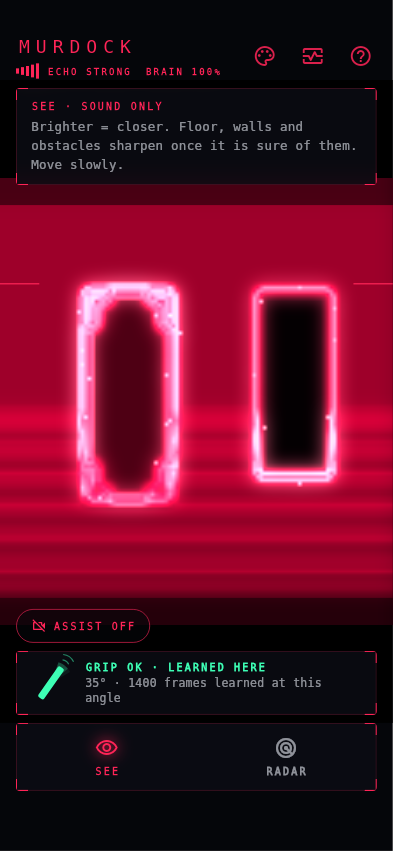
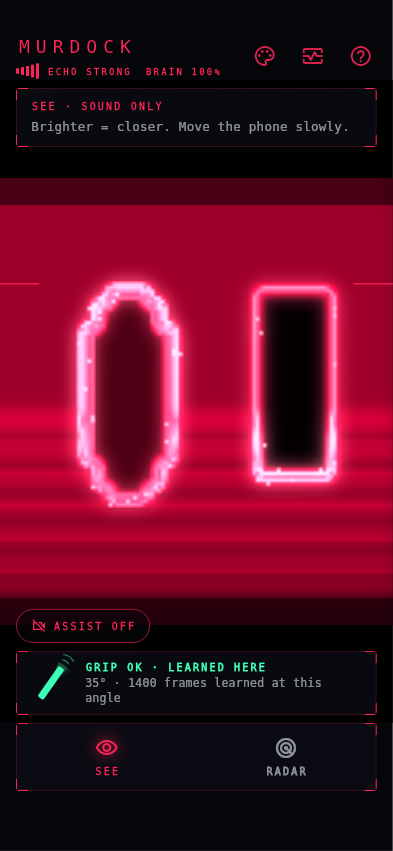
Remove geometric shapes from SEE: cluttered and inaccurate on the phone
The shapes head keeps training in the background but is no longer drawn or sent to
the UI, and the camera no longer fits shapes per frame.

Claude-Session: https://claude.ai/code/session_01FaaL1WKpQiBqvyPWN8qiJK

diff --git a/lib/home_page.dart b/lib/home_page.dart
@@ -9,7 +9,6 @@ import 'package:wakelock_plus/wakelock_plus.dart';
 import 'render/fusion.dart';
 import 'render/palette.dart';
 import 'render/scope_view.dart';
-import 'render/shapes.dart';
 import 'render/vision_renderer.dart';
 import 'render/vision_view.dart';
 import 'sonar/sonar_channel.dart';
@@ -44,9 +43,6 @@ class HomePage extends StatefulWidget {
 class _HomePageState extends State<HomePage> with WidgetsBindingObserver {
   final _sonar = SonarChannel();
   final _vision = VisionRenderer();
-  // Scene shapes (floor, walls, obstacles), drawn into the echo picture once it is sure of them.
-  final _shapes = ShapeTracker();
-  Float32List? _teacherShapes;
   final _camera = CameraTeacher();
   final List<StreamSubscription<Object?>> _subs = [];
 
@@ -95,10 +91,7 @@ class _HomePageState extends State<HomePage> with WidgetsBindingObserver {
     _subs.add(_sonar.brain.listen((b) {
       _samples = b.samples;
       _lastBrainAt = DateTime.now();
-      final shapes = cleanShapes(b.shapes);
-      if (shapes != null) _shapes.update(fuseShapes(shapes, _teacherShapes, _assistLevel));
-      // Shapes it is sure of are drawn into the echo picture itself (same laser look).
-      _vision.update(paintShapes(_fuse(b.depth), _shapes));
+      _vision.update(_fuse(b.depth));
     }));
     _subs.add(_sonar.pose.listen((p) => setState(() {
           _tilt = p.tilt;
@@ -234,7 +227,6 @@ class _HomePageState extends State<HomePage> with WidgetsBindingObserver {
   Future<void> _stopCamera() async {
     await _camera.stop();
     _teacherMap = null;
-    _teacherShapes = null;
     await _sonar.save();
   }
 
@@ -249,7 +241,6 @@ class _HomePageState extends State<HomePage> with WidgetsBindingObserver {
     final learn = f.luma >= kLearnLuma;
     final r = await _sonar.teach(f.rgb, learn: learn);
     _teacherMap = softenCameraDepth(r.depth);
-    _teacherShapes = cleanShapes(r.shapes);
     _teacherAt = DateTime.now();
     _teacherMs = r.ms;
     _teacherBackend = r.backend;
@@ -437,7 +428,7 @@ class _HomePageState extends State<HomePage> with WidgetsBindingObserver {
       title = 'SEE · SOUND ONLY';
       body = untaught
           ? 'Generic BatVision head start until it learns your rooms. Turn on camera assist to teach it.'
-          : 'Brighter = closer. Floor, walls and obstacles sharpen once it is sure of them. Move slowly.';
+          : 'Brighter = closer. Move the phone slowly.';
     } else if (_cameraLuma < kAssistLuma) {
       title = 'SEE · SOUND ONLY · TOO DARK FOR CAMERA';
       body = 'The picture comes from echoes alone. Brighter = closer.';

diff --git a/lib/sonar/sonar_channel.dart b/lib/sonar/sonar_channel.dart
@@ -45,18 +45,13 @@ class SonarFrame {
 class BrainFrame {
   BrainFrame(Map<Object?, Object?> m)
       : depth = m['depth']! as Float32List,
-        shapes = m['shapes'] as Float32List?,
         steps = (m['steps'] as int?) ?? 0,
         loss = (m['loss'] as num?)?.toDouble() ?? double.nan,
-        shapeLoss = (m['shapeLoss'] as num?)?.toDouble() ?? double.nan,
         samples = (m['samples'] as int?) ?? 0;
 
   /// [kDepthSize x kDepthSize] predicted nearness (1 = close).
   final Float32List depth;
 
-  /// Predicted scene shapes (floor, walls, nearest obstacles; render/shapes.dart layout).
-  final Float32List? shapes;
-  final double shapeLoss;
   final int steps;
   final double loss;
 
@@ -205,14 +200,11 @@ class SonarStatus {
 class TeachResult {
   TeachResult(Map<Object?, Object?> m)
       : depth = m['depth']! as Float32List,
-        shapes = m['shapes'] as Float32List?,
         ms = m['ms'] as int? ?? 0,
         backend = m['backend'] as String? ?? '';
 
   final Float32List depth;
 
-  /// Shapes fitted to the camera's depth (what the echo AI learns to predict).
-  final Float32List? shapes;
   final int ms;
   final String backend;
 }

diff --git a/tool/screenshots_test.dart b/tool/screenshots_test.dart
@@ -51,12 +51,6 @@ Float32List _room() {
   return d;
 }
 
-/// ml/shapes.py fit_shapes(_room()): floor, walls and the person as the nearest obstacle.
-final _roomShapes = Float32List.fromList([
-  0.643, 0.516, 0.719, 0.000, 0.375, 0.789, 0.358, 0.290, 0.408, 0.730, 0.179, 0.598, //
-  1.000, 0.800, 0.328, 0.484, 0.219, 0.531, 0.550, 0.250, 0.016, 0.250, 0.031, 0.500,
-]);
-
 Float32List _profile(int t) {
   final p = Float32List(kRangeBins * kChannels);
   for (var b = 0; b < kRangeBins; b++) {
@@ -139,12 +133,11 @@ void _mockNative(
       sink.success({'type': 'pose', 'tilt': tilt, 'roll': 2.0});
       if (tuneDone != null) sink.success(_tuneEvent(done: tuneDone));
       if (broken) return;
-      for (var t = 0; t < 90; t++) { // long enough for steady shapes to be drawn
+      for (var t = 0; t < 40; t++) {
         sink.success({'type': 'ping', 'profile': _profile(t), 'clean': _profile(t), 'direct': 3.2});
         sink.success({
           'type': 'brain',
           'depth': _room(),
-          'shapes': _roomShapes,
           'samples': samples,
           'steps': samples * 4,
           'loss': 0.1,

diff --git a/android/app/src/main/kotlin/com/murdock/murdock/MainActivity.kt b/android/app/src/main/kotlin/com/murdock/murdock/MainActivity.kt
@@ -203,8 +203,7 @@ class MainActivity : FlutterActivity() {
             val depth = t.run(rgb)
             // No samples while the speaker filter is relearned: those echoes aren't clean.
             if (learn && sonar?.busy != true) submitBrain("training") { brain?.addSample(stack, pose, depth, tilt) }
-            // The camera's own shapes too, so camera assist can sharpen the shape overlay.
-            reply(result, mapOf("depth" to depth, "shapes" to ShapeFit.fit(depth), "ms" to t.lastMs.toInt(), "backend" to t.backend))
+            reply(result, mapOf("depth" to depth, "ms" to t.lastMs.toInt(), "backend" to t.backend))
         }
     }
 
@@ -230,8 +229,6 @@ class MainActivity : FlutterActivity() {
                 emit(mapOf(
                     "type" to "brain",
                     "depth" to p.depth,
-                    "shapes" to p.shapes,
-                    "shapeLoss" to b.lastShapeLoss.toDouble(),
                     "steps" to b.trainedSteps,
                     "loss" to b.lastLoss.toDouble(),
                     "samples" to b.totalSamples,

diff --git a/README.md b/README.md
@@ -119,10 +119,10 @@ two-grip session on the phone runtime, the angle input cut held-out error from 0
 
 A second, small **shapes head** (`ml/shapes.py`) predicts a few scene primitives from the same
 latent and pose: the floor (horizon, nearness), wall panels to the left, ahead and right
-(nearness, slant), and the two nearest obstacles as boxes, each with a confidence. Only shapes
-reported steadily for about 2 seconds are used: SEE then paints them into the nearness map
-(`paintShapes` in `lib/render/shapes.dart`, at most 60% of a pixel), so the normal echo renderer
-draws them in the same laser look. The labels are fitted to the camera teacher's depth
+(nearness, slant), and the two nearest obstacles as boxes, each with a confidence. They are **not
+shown** in the app: on the phone they cluttered the picture without being accurate (on
+BatVision they beat a no-audio guess by only ~5%). The head still learns quietly alongside the
+depth head, so it can be revisited once there is far more data. The labels are fitted to the camera teacher's depth
 (`ShapeFit.kt`, a line-for-line copy of `shapes.py`; `ml/check_shapes_kotlin.py` checks they
 agree, to 3e-8 on 2,500 maps), so learning them needs no extra work from you and samples
 recorded before the shapes head get labels too. The depth head is untouched: same output and
